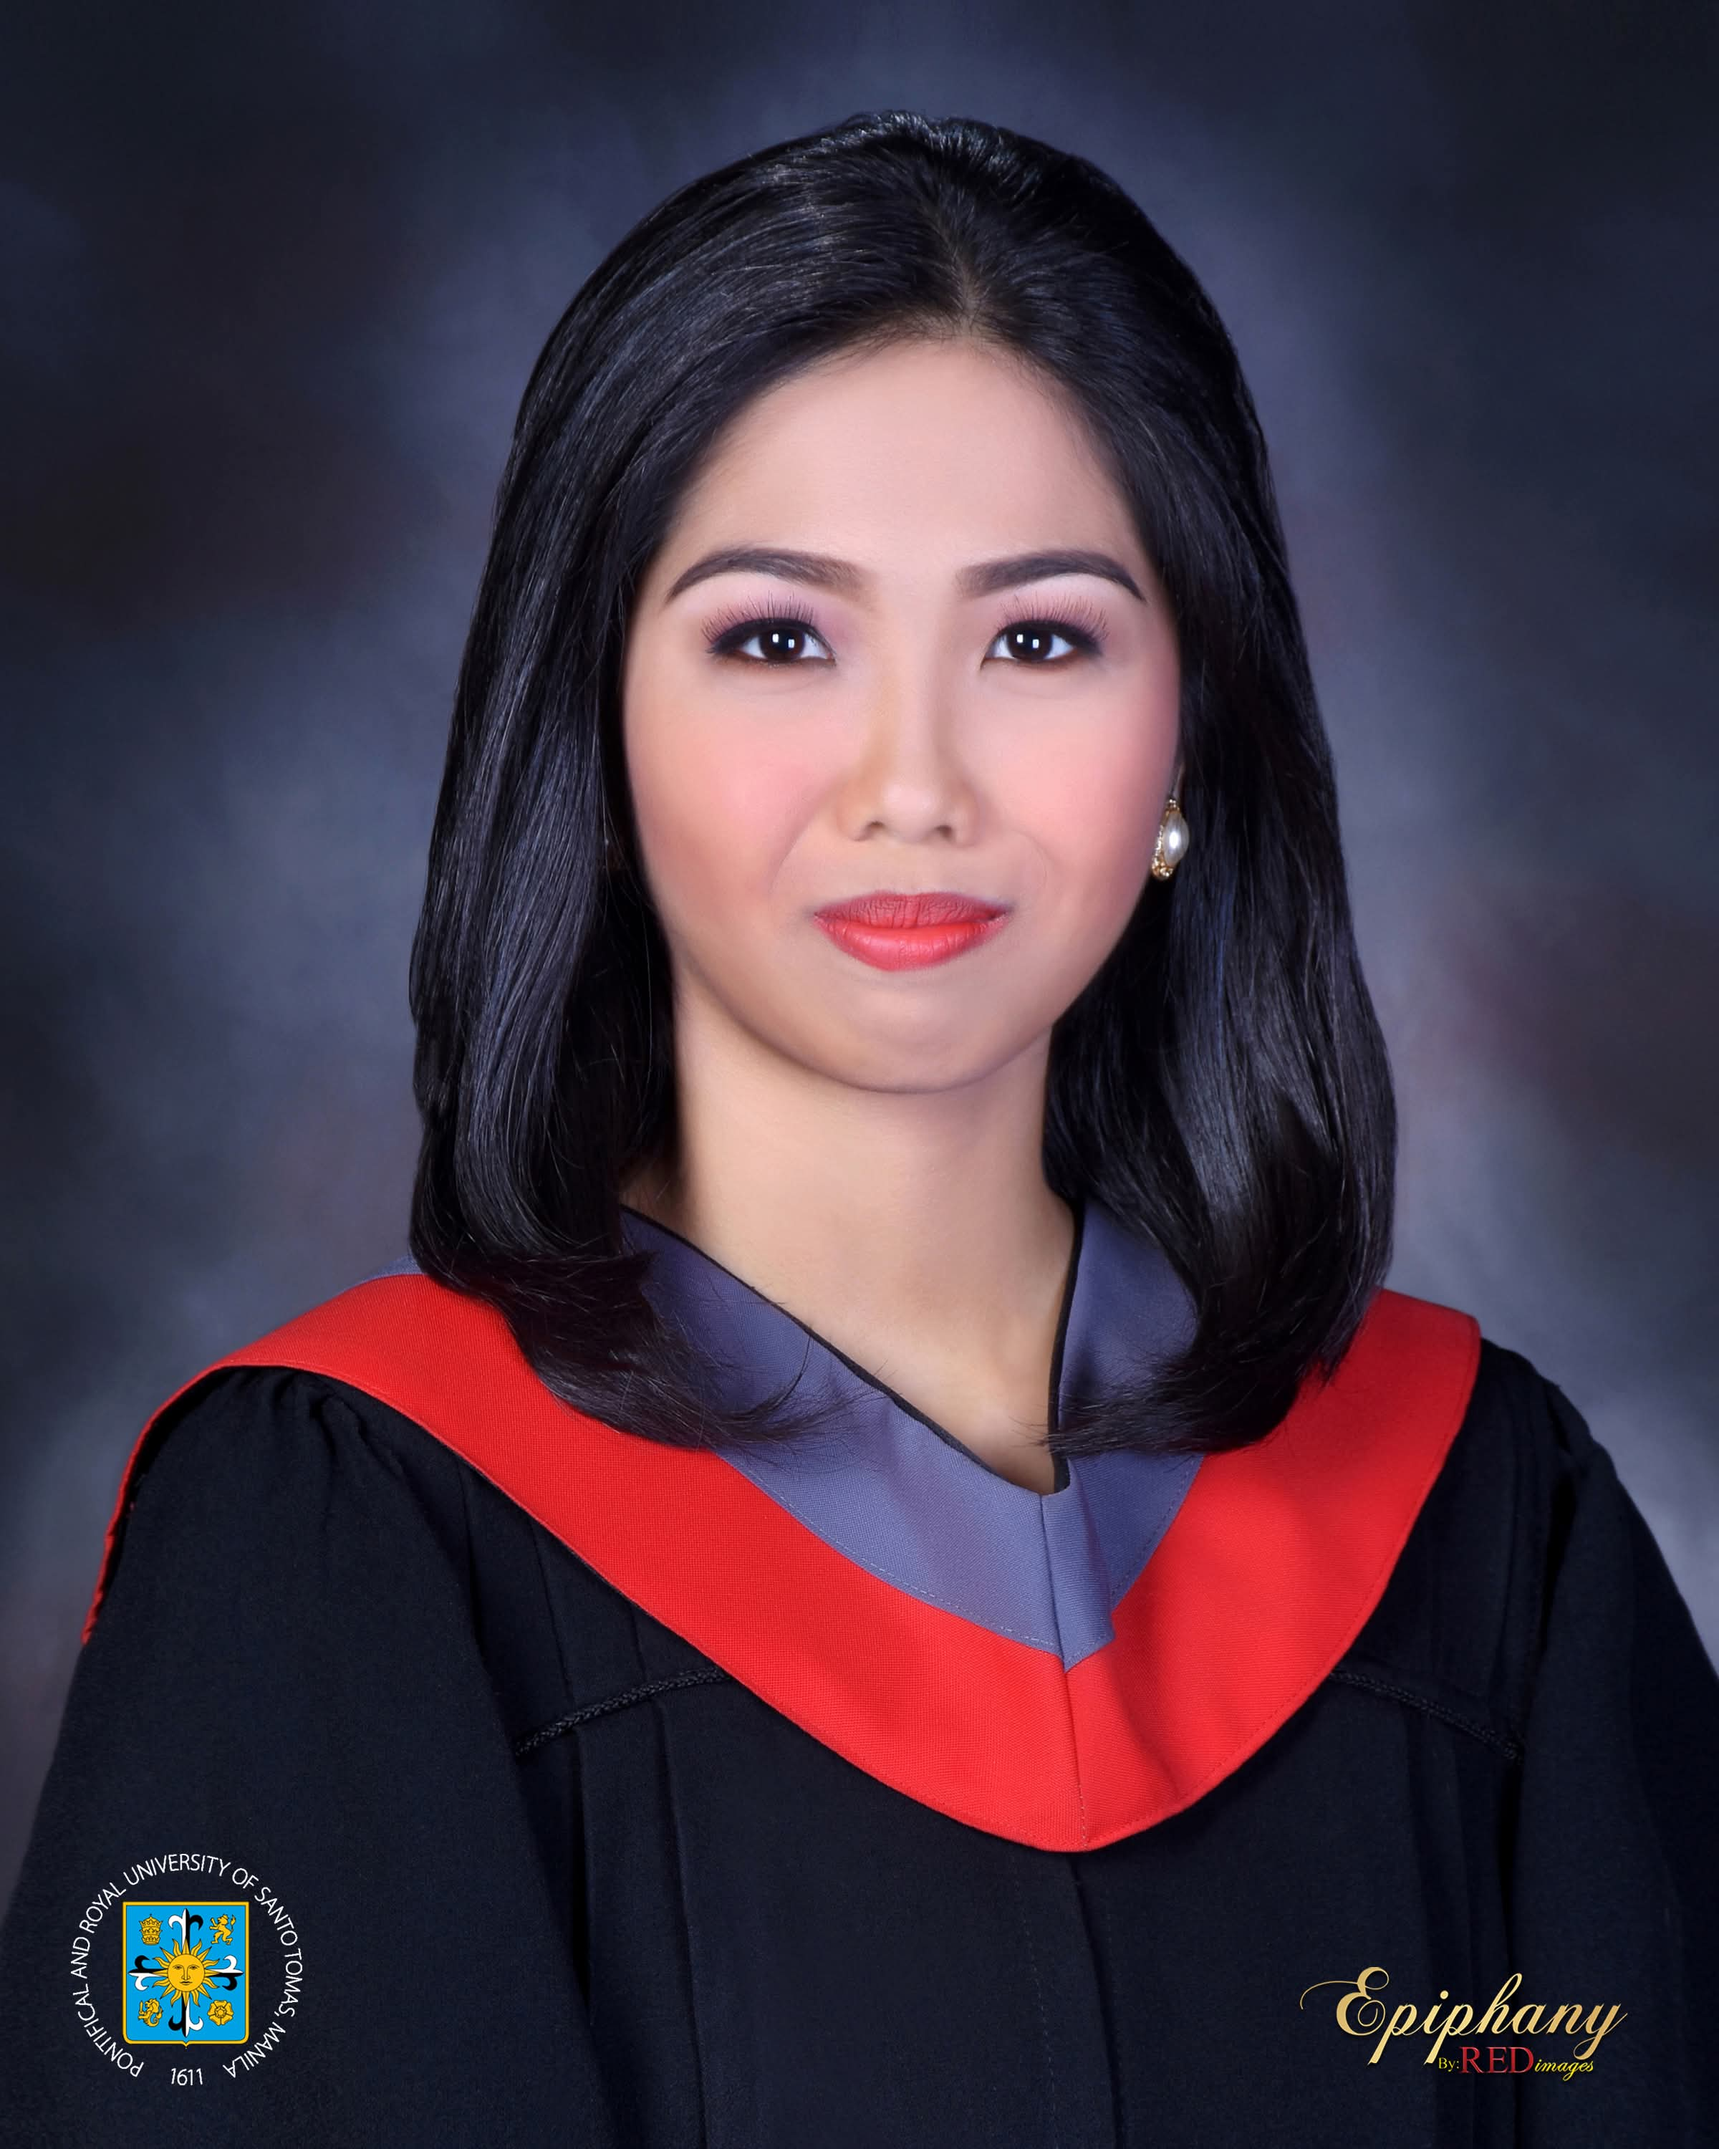
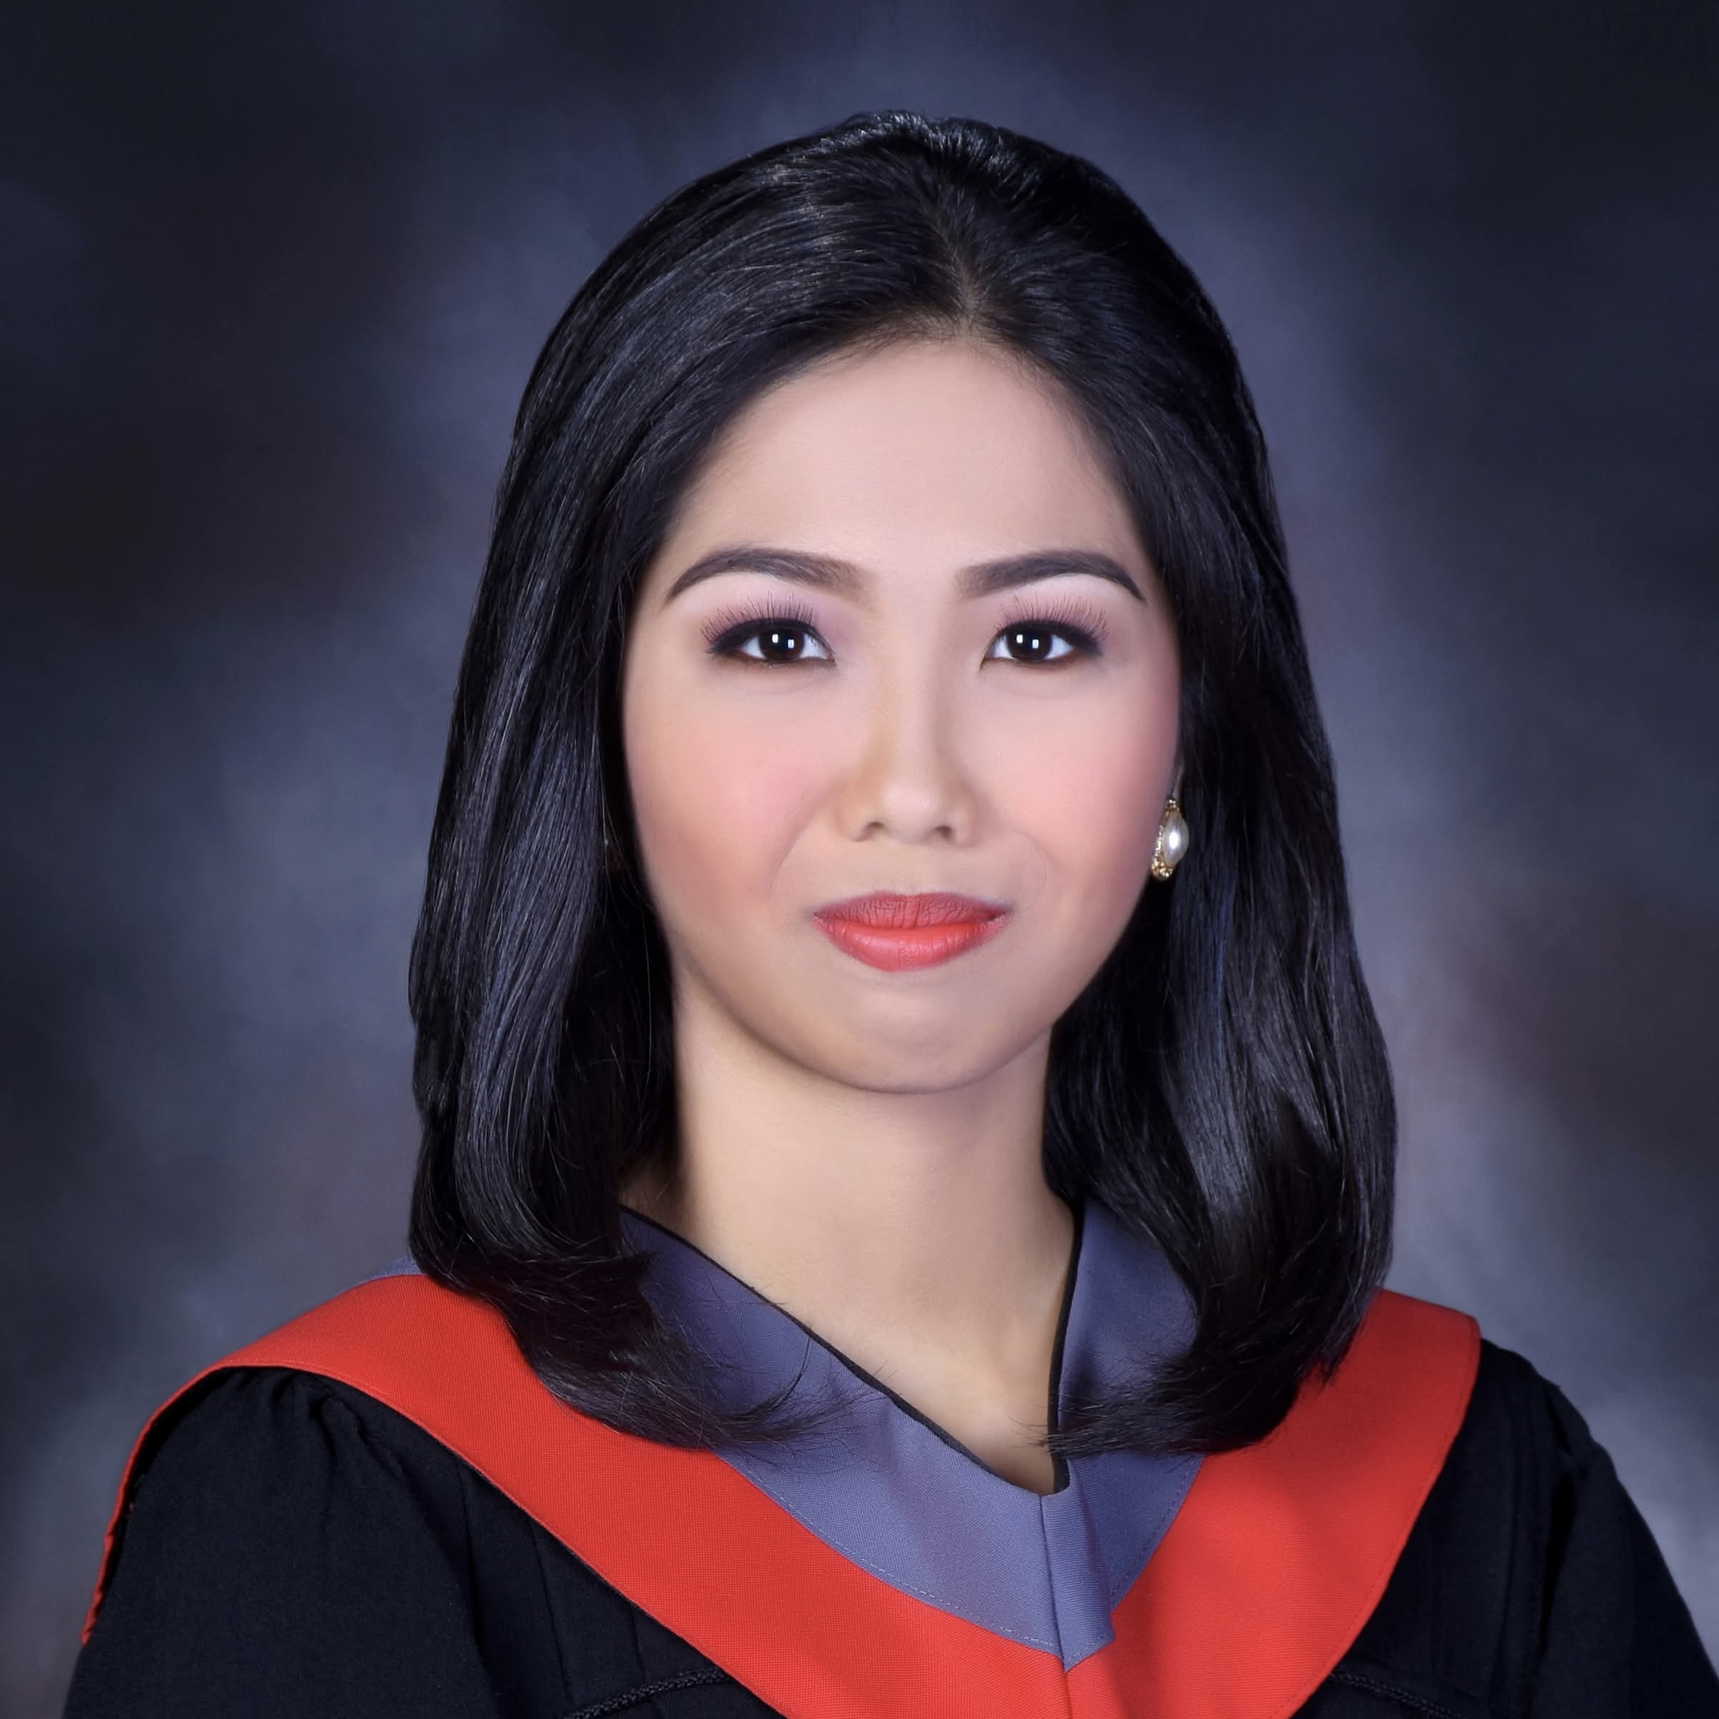
Update profile photo and revert the website to its previous color scheme
Reverts color scheme changes in `index.css` and re-uploads the profile picture.

Replit-Commit-Author: Agent
Replit-Commit-Session-Id: ca8326c7-b1e3-4ac8-a397-49f4adac64ce
Replit-Commit-Screenshot-Url: https://storage.googleapis.com/screenshot-production-us-central1/1f0f2010-b52b-4d54-a076-923cb2a10f3c/d55b3ab7-6f06-42ef-9043-a5af8955babc.jpg

diff --git a/client/src/index.css b/client/src/index.css
@@ -5,25 +5,25 @@
 @tailwind utilities;
 
 :root {
-  --background: 248 250 252; /* slate-50 */
-  --foreground: 30 41 59; /* slate-800 */
-  --muted: 241 245 249; /* slate-100 */
+  --background: 255 255 255; /* white */
+  --foreground: 15 23 42; /* slate-900 */
+  --muted: 248 250 252; /* slate-50 */
   --muted-foreground: 100 116 139; /* slate-500 */
   --popover: 255 255 255; /* white */
-  --popover-foreground: 30 41 59; /* slate-800 */
+  --popover-foreground: 15 23 42; /* slate-900 */
   --card: 255 255 255; /* white */
-  --card-foreground: 30 41 59; /* slate-800 */
+  --card-foreground: 15 23 42; /* slate-900 */
   --border: 226 232 240; /* slate-200 */
-  --input: 226 232 240; /* slate-200 */
-  --primary: 37 99 235; /* blue-600 */
-  --primary-foreground: 248 250 252; /* slate-50 */
+  --input: 241 245 249; /* slate-100 */
+  --primary: 30 58 138; /* blue-800 */
+  --primary-foreground: 255 255 255; /* white */
   --secondary: 241 245 249; /* slate-100 */
   --secondary-foreground: 15 23 42; /* slate-900 */
-  --accent: 6 182 212; /* cyan-500 */
-  --accent-foreground: 248 250 252; /* slate-50 */
-  --destructive: 239 68 68; /* red-500 */
-  --destructive-foreground: 248 250 252; /* slate-50 */
-  --ring: 37 99 235; /* blue-600 */
+  --accent: 59 130 246; /* blue-500 */
+  --accent-foreground: 255 255 255; /* white */
+  --destructive: 220 38 38; /* red-600 */
+  --destructive-foreground: 255 255 255; /* white */
+  --ring: 30 58 138; /* blue-800 */
   --radius: 0.5rem;
 }
 
@@ -38,15 +38,15 @@
   --card-foreground: 226 232 240; /* slate-200 */
   --border: 51 65 85; /* slate-700 */
   --input: 51 65 85; /* slate-700 */
-  --primary: 37 99 235; /* blue-600 */
-  --primary-foreground: 248 250 252; /* slate-50 */
+  --primary: 59 130 246; /* blue-500 */
+  --primary-foreground: 255 255 255; /* white */
   --secondary: 30 41 59; /* slate-800 */
   --secondary-foreground: 226 232 240; /* slate-200 */
-  --accent: 6 182 212; /* cyan-500 */
-  --accent-foreground: 248 250 252; /* slate-50 */
+  --accent: 99 102 241; /* indigo-500 */
+  --accent-foreground: 255 255 255; /* white */
   --destructive: 239 68 68; /* red-500 */
-  --destructive-foreground: 248 250 252; /* slate-50 */
-  --ring: 37 99 235; /* blue-600 */
+  --destructive-foreground: 255 255 255; /* white */
+  --ring: 59 130 246; /* blue-500 */
 }
 
 @layer base {
